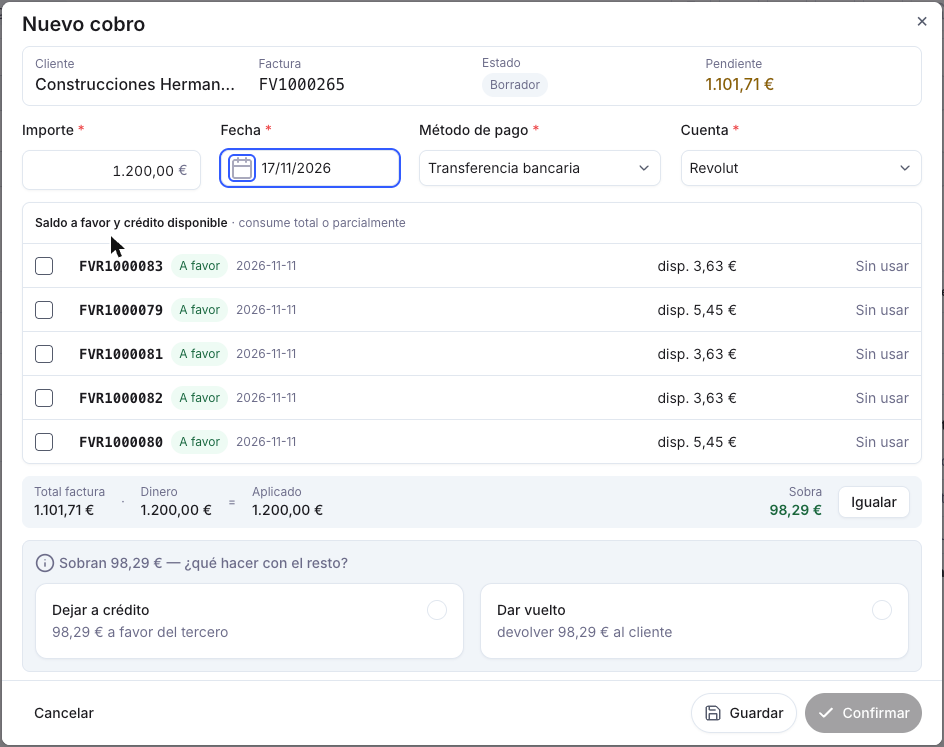
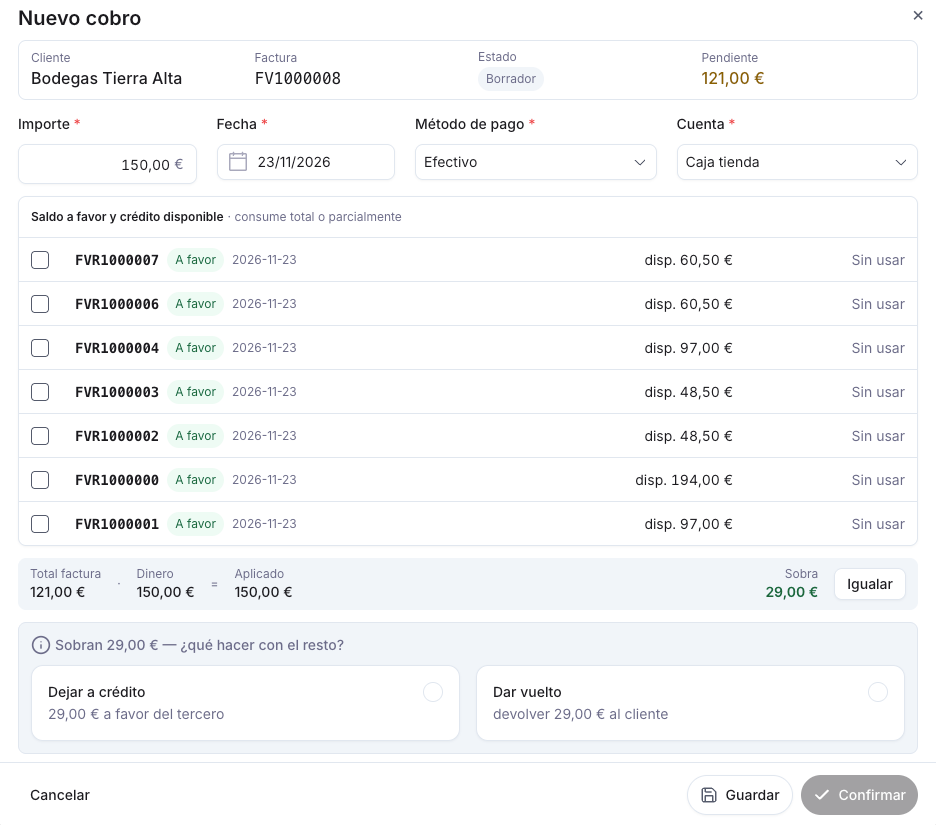
Feature ETP-6115: Rehacer capturas de Añadir cobros a tu factura de venta
- 4 capturas nuevas con la skin actual en el entorno de prueba: Nuevo cobro
  con saldo a favor disponible, Cobros de la factura saldada, cobro de mas
  con Dejar a credito / Dar vuelto y dos saldos a favor aplicados.
- Sin cursor ni campos con foco; sin cuentas con marcas reales.
- Alt de la captura 3 ajustado al nuevo sobrante (29,00 euros).

Claude-Session: https://claude.ai/code/session_016LCKP6YMEGhHhkxxAuWfDb

diff --git a/docs/es/comercial/ventas/anadir-cobros-a-tu-factura-de-venta/anadir-cobros-a-tu-factura-de-venta.md b/docs/es/comercial/ventas/anadir-cobros-a-tu-factura-de-venta/anadir-cobros-a-tu-factura-de-venta.md
@@ -65,7 +65,7 @@ Cuando un cliente te paga una factura, registras ese dinero como un cobro. Puede
 Cuando lo aplicado supera el total de la factura, la ventana avisa **Sobran X € — ¿qué hacer con el resto?** y te pide que elijas qué hacer con la diferencia. Hasta que elijas una opción no puedes confirmar el cobro:
 
 <figure markdown="span">
-  ![Ventana Nuevo cobro con un sobrante de 98,29 euros y las opciones Dejar a crédito y Dar vuelto, con el botón Confirmar desactivado](assets/anadir-cobros-a-tu-factura-de-venta-3.png)
+  ![Ventana Nuevo cobro con un sobrante de 29,00 euros y las opciones Dejar a crédito y Dar vuelto, con el botón Confirmar desactivado](assets/anadir-cobros-a-tu-factura-de-venta-3.png)
   <figcaption>Con un cobro de más, hay que elegir entre dejar el sobrante a crédito o devolverlo antes de confirmar.</figcaption>
 </figure>
 
